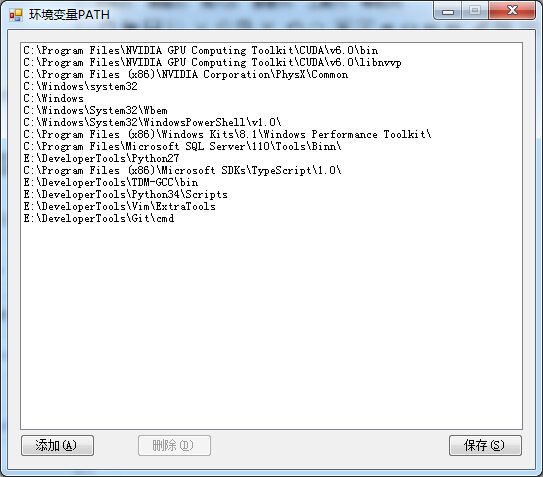
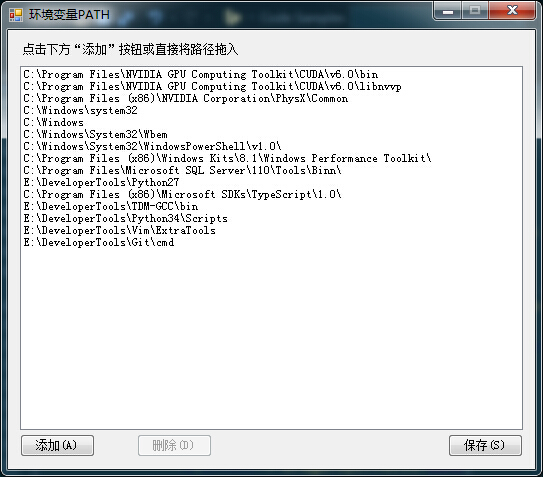
Add tips and auto delete undirectory paths

diff --git a/src/QuickPath/FormMain.Designer.cs b/src/QuickPath/FormMain.Designer.cs
@@ -32,6 +32,7 @@
             this.buttonAdd = new System.Windows.Forms.Button();
             this.buttonDelete = new System.Windows.Forms.Button();
             this.buttonSave = new System.Windows.Forms.Button();
+            this.labelTip = new System.Windows.Forms.Label();
             this.SuspendLayout();
             // 
             // listBox1
@@ -42,10 +43,10 @@
             | System.Windows.Forms.AnchorStyles.Right)));
             this.listBox1.FormattingEnabled = true;
             this.listBox1.ItemHeight = 12;
-            this.listBox1.Location = new System.Drawing.Point(12, 12);
+            this.listBox1.Location = new System.Drawing.Point(12, 36);
             this.listBox1.Name = "listBox1";
             this.listBox1.SelectionMode = System.Windows.Forms.SelectionMode.MultiExtended;
-            this.listBox1.Size = new System.Drawing.Size(503, 388);
+            this.listBox1.Size = new System.Drawing.Size(503, 364);
             this.listBox1.TabIndex = 0;
             this.listBox1.SelectedIndexChanged += new System.EventHandler(this.listBox1_SelectedIndexChanged);
             this.listBox1.DragDrop += new System.Windows.Forms.DragEventHandler(this.widgets_DragDrop);
@@ -85,12 +86,22 @@
             this.buttonSave.UseVisualStyleBackColor = true;
             this.buttonSave.Click += new System.EventHandler(this.buttonSave_Click);
             // 
+            // labelTip
+            // 
+            this.labelTip.AutoSize = true;
+            this.labelTip.Location = new System.Drawing.Point(13, 13);
+            this.labelTip.Name = "labelTip";
+            this.labelTip.Size = new System.Drawing.Size(221, 12);
+            this.labelTip.TabIndex = 4;
+            this.labelTip.Text = "点击下方“添加”按钮或直接将路径拖入";
+            // 
             // FormMain
             // 
             this.AllowDrop = true;
             this.AutoScaleDimensions = new System.Drawing.SizeF(6F, 12F);
             this.AutoScaleMode = System.Windows.Forms.AutoScaleMode.Font;
             this.ClientSize = new System.Drawing.Size(527, 439);
+            this.Controls.Add(this.labelTip);
             this.Controls.Add(this.buttonSave);
             this.Controls.Add(this.buttonDelete);
             this.Controls.Add(this.buttonAdd);
@@ -102,6 +113,7 @@
             this.DragDrop += new System.Windows.Forms.DragEventHandler(this.widgets_DragDrop);
             this.DragEnter += new System.Windows.Forms.DragEventHandler(this.widgets_DragEnter);
             this.ResumeLayout(false);
+            this.PerformLayout();
 
         }
 
@@ -111,6 +123,7 @@
         private System.Windows.Forms.Button buttonAdd;
         private System.Windows.Forms.Button buttonDelete;
         private System.Windows.Forms.Button buttonSave;
+        private System.Windows.Forms.Label labelTip;
     }
 }
 

diff --git a/src/QuickPath/FormAdd.Designer.cs b/src/QuickPath/FormAdd.Designer.cs
@@ -32,6 +32,7 @@
             this.buttonOK = new System.Windows.Forms.Button();
             this.buttonCancel = new System.Windows.Forms.Button();
             this.buttonBrowse = new System.Windows.Forms.Button();
+            this.labelTip = new System.Windows.Forms.Label();
             this.SuspendLayout();
             // 
             // textBox1
@@ -40,11 +41,11 @@
             this.textBox1.Anchor = ((System.Windows.Forms.AnchorStyles)((((System.Windows.Forms.AnchorStyles.Top | System.Windows.Forms.AnchorStyles.Bottom) 
             | System.Windows.Forms.AnchorStyles.Left) 
             | System.Windows.Forms.AnchorStyles.Right)));
-            this.textBox1.Location = new System.Drawing.Point(12, 12);
+            this.textBox1.Location = new System.Drawing.Point(12, 29);
             this.textBox1.Multiline = true;
             this.textBox1.Name = "textBox1";
             this.textBox1.ScrollBars = System.Windows.Forms.ScrollBars.Vertical;
-            this.textBox1.Size = new System.Drawing.Size(544, 254);
+            this.textBox1.Size = new System.Drawing.Size(544, 237);
             this.textBox1.TabIndex = 0;
             this.textBox1.TextChanged += new System.EventHandler(this.textBox1_TextChanged);
             this.textBox1.DragDrop += new System.Windows.Forms.DragEventHandler(this.textBox1_DragDrop);
@@ -84,11 +85,21 @@
             this.buttonBrowse.UseVisualStyleBackColor = true;
             this.buttonBrowse.Click += new System.EventHandler(this.buttonBrowse_Click);
             // 
+            // labelTip
+            // 
+            this.labelTip.AutoSize = true;
+            this.labelTip.Location = new System.Drawing.Point(10, 9);
+            this.labelTip.Name = "labelTip";
+            this.labelTip.Size = new System.Drawing.Size(221, 12);
+            this.labelTip.TabIndex = 4;
+            this.labelTip.Text = "点击下方“浏览”按钮或直接将路径拖入";
+            // 
             // FormAdd
             // 
             this.AutoScaleDimensions = new System.Drawing.SizeF(6F, 12F);
             this.AutoScaleMode = System.Windows.Forms.AutoScaleMode.Font;
             this.ClientSize = new System.Drawing.Size(568, 307);
+            this.Controls.Add(this.labelTip);
             this.Controls.Add(this.buttonBrowse);
             this.Controls.Add(this.buttonCancel);
             this.Controls.Add(this.buttonOK);
@@ -107,5 +118,6 @@
         private System.Windows.Forms.Button buttonOK;
         private System.Windows.Forms.Button buttonCancel;
         private System.Windows.Forms.Button buttonBrowse;
+        private System.Windows.Forms.Label labelTip;
     }
 }

diff --git a/src/QuickPath/EnvironmentPath.cs b/src/QuickPath/EnvironmentPath.cs
@@ -3,6 +3,7 @@ using System.Collections.Generic;
 using System.Linq;
 using System.Text;
 using System.Windows.Forms;
+using System.IO;
 
 namespace QuickPath
 {
@@ -26,6 +27,17 @@ namespace QuickPath
             }
             ChangedPATH.Remove(ChangedPATH.Length - 1, 1);
             Environment.SetEnvironmentVariable("PATH", ChangedPATH.ToString(), EnvironmentVariableTarget.Machine);
+        }
+    }
+    static class CommonMethods
+    {
+        static public List<string> DeleteInexistentDir(string[] directorys)
+        {
+            List<string> result = new List<string>();
+            foreach (string dir in directorys)
+                if (Directory.Exists(dir))
+                    result.Add(dir);
+            return result;
         }
     }
 }

diff --git a/src/QuickPath/FormMain.cs b/src/QuickPath/FormMain.cs
@@ -52,7 +52,7 @@ namespace QuickPath
             FormAdd AddItem = new FormAdd();
             AddItem.ShowDialog();
             if (AddItem.AddItems.Count != 0)
-                listBox1.Items.AddRange(AddItem.AddItems.ToArray());
+                addToListBox(AddItem.AddItems.ToArray());
         }
 
         private void buttonSave_Click(object sender, EventArgs e)
@@ -86,9 +86,9 @@ namespace QuickPath
             }
         }
 
-        private void addToListBox(string[] Files)
+        private void addToListBox(string[] directorys)
         {
-            listBox1.Items.AddRange(Files);
+            listBox1.Items.AddRange(CommonMethods.DeleteInexistentDir(directorys).ToArray());
         }
     }
 }

diff --git a/src/QuickPath/FormAdd.cs b/src/QuickPath/FormAdd.cs
@@ -45,9 +45,9 @@ namespace QuickPath
                 textBox1.Text += ";";
             }
         }
-        private void addToTextBox(string[] Files)
+        private void addToTextBox(string[] directorys)
         {
-            List<string> FilePaths = new List<string>(Files);
+            List<string> FilePaths = new List<string>(directorys);
             StringBuilder DragPathText = new StringBuilder();
             FilePaths.ForEach(m => DragPathText.Append(m).Append(";"));
             textBox1.Text += DragPathText.ToString();
